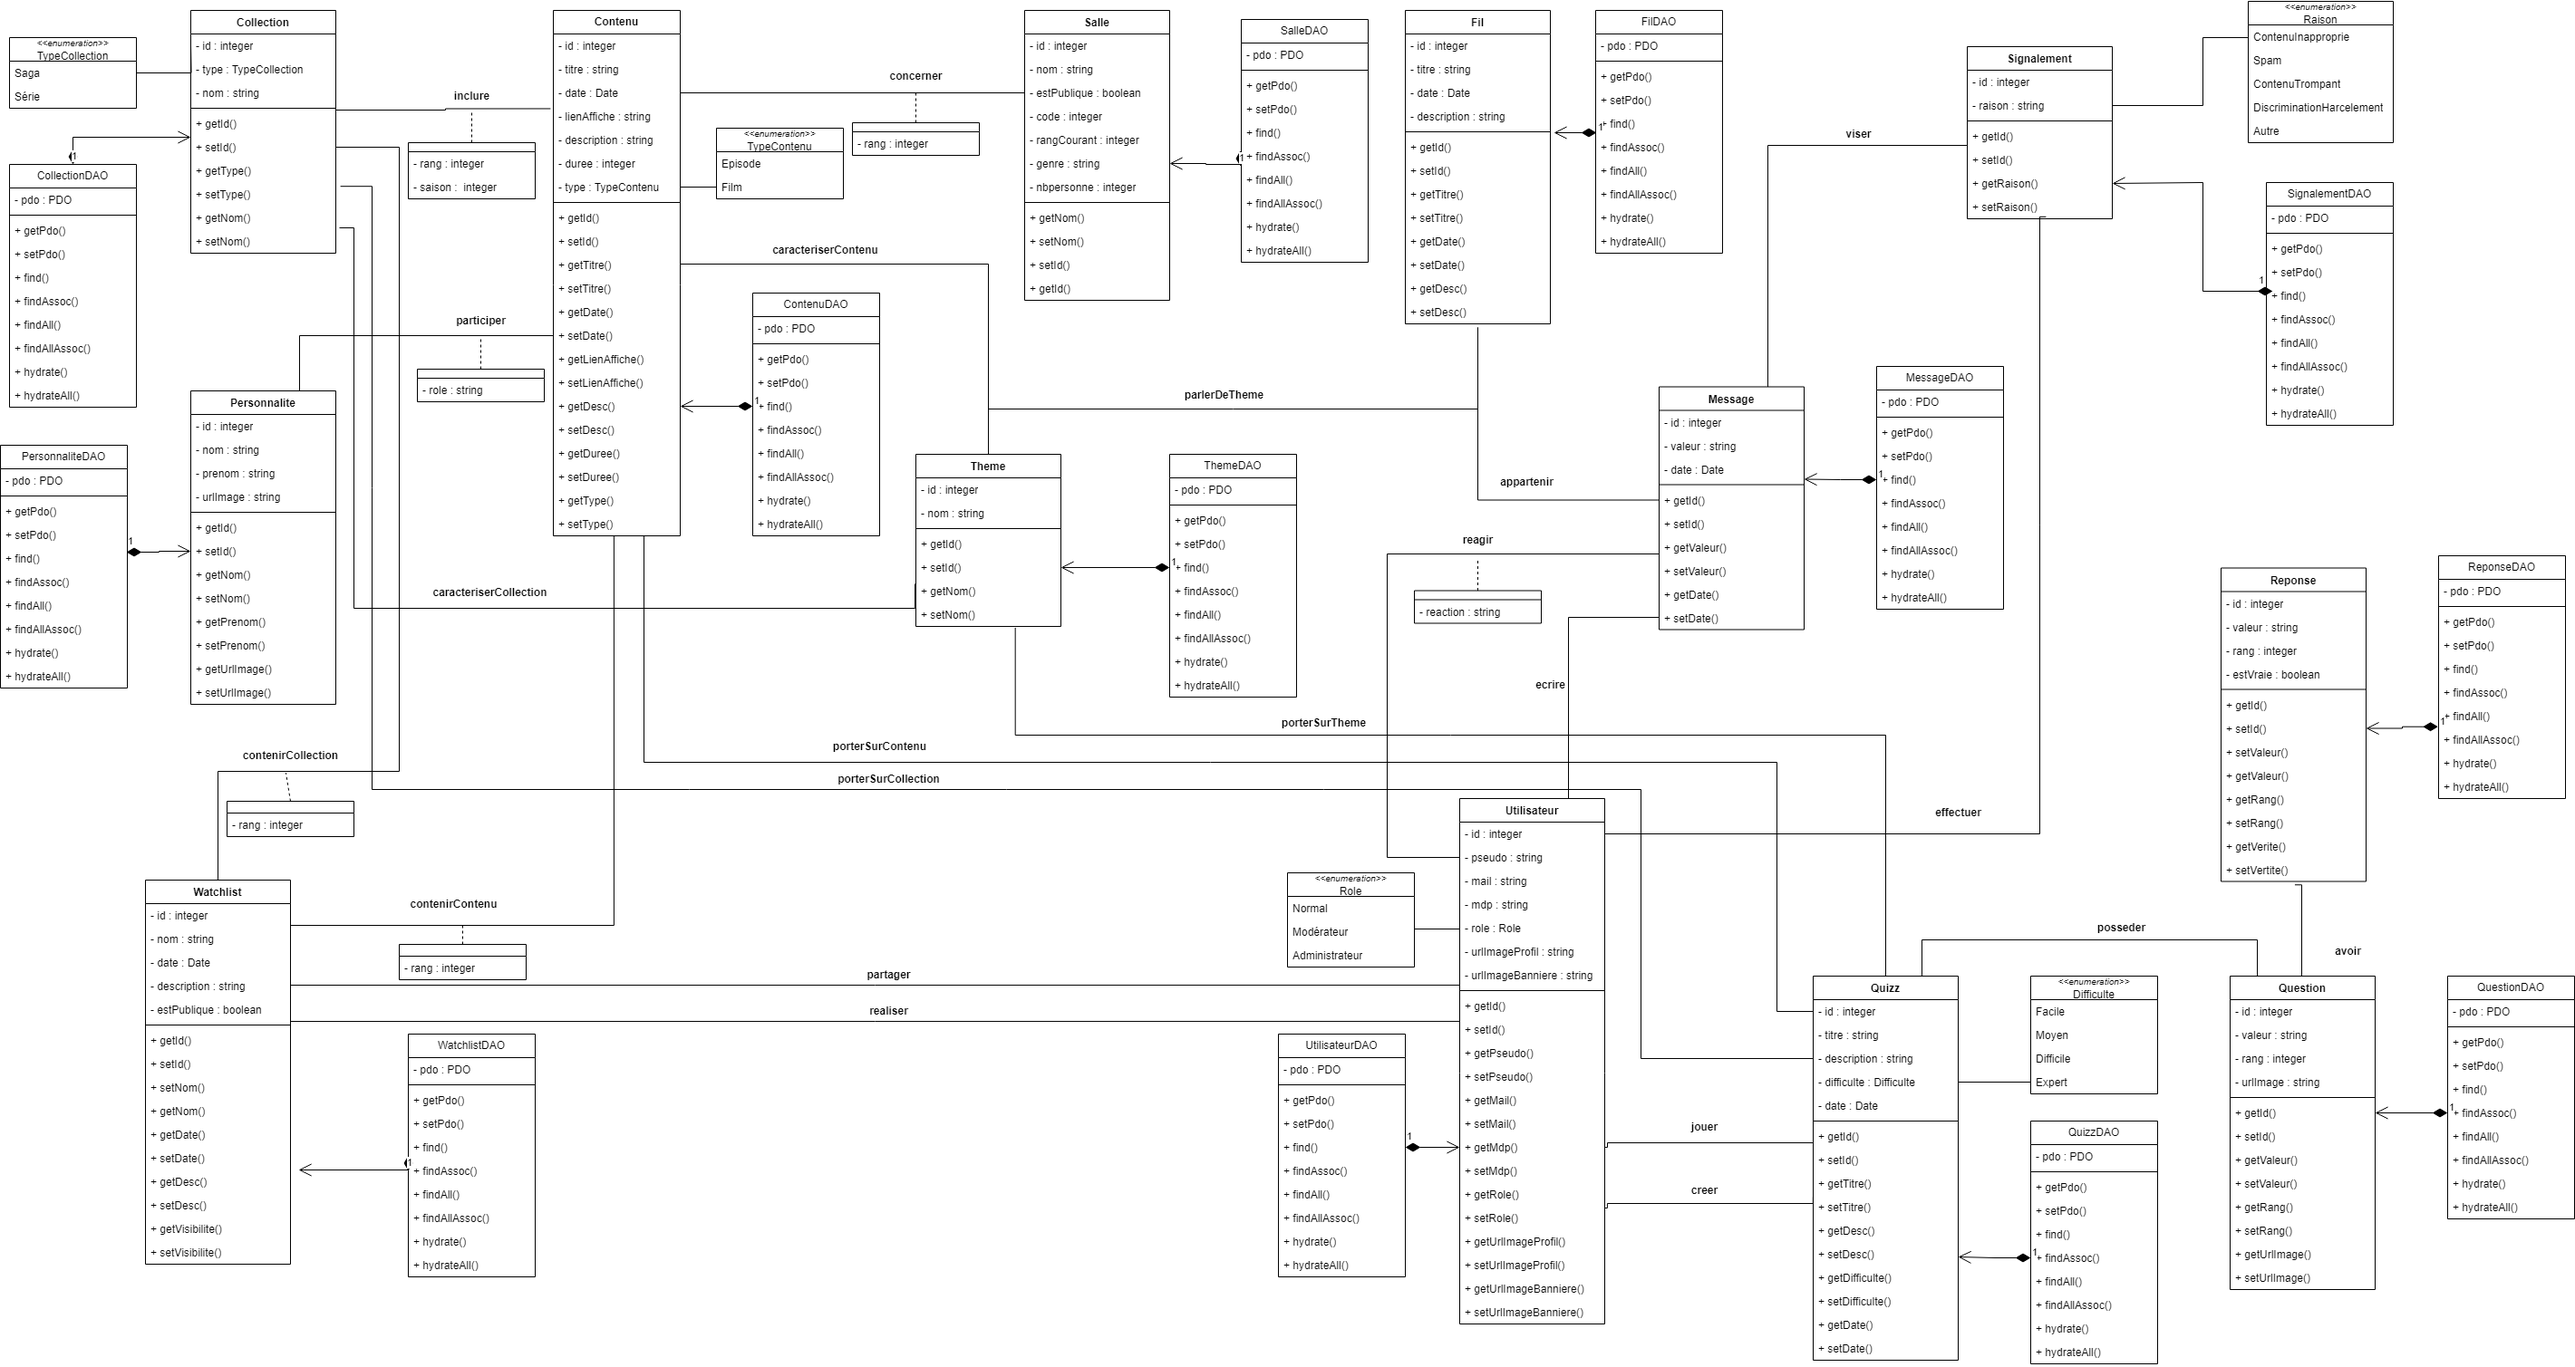
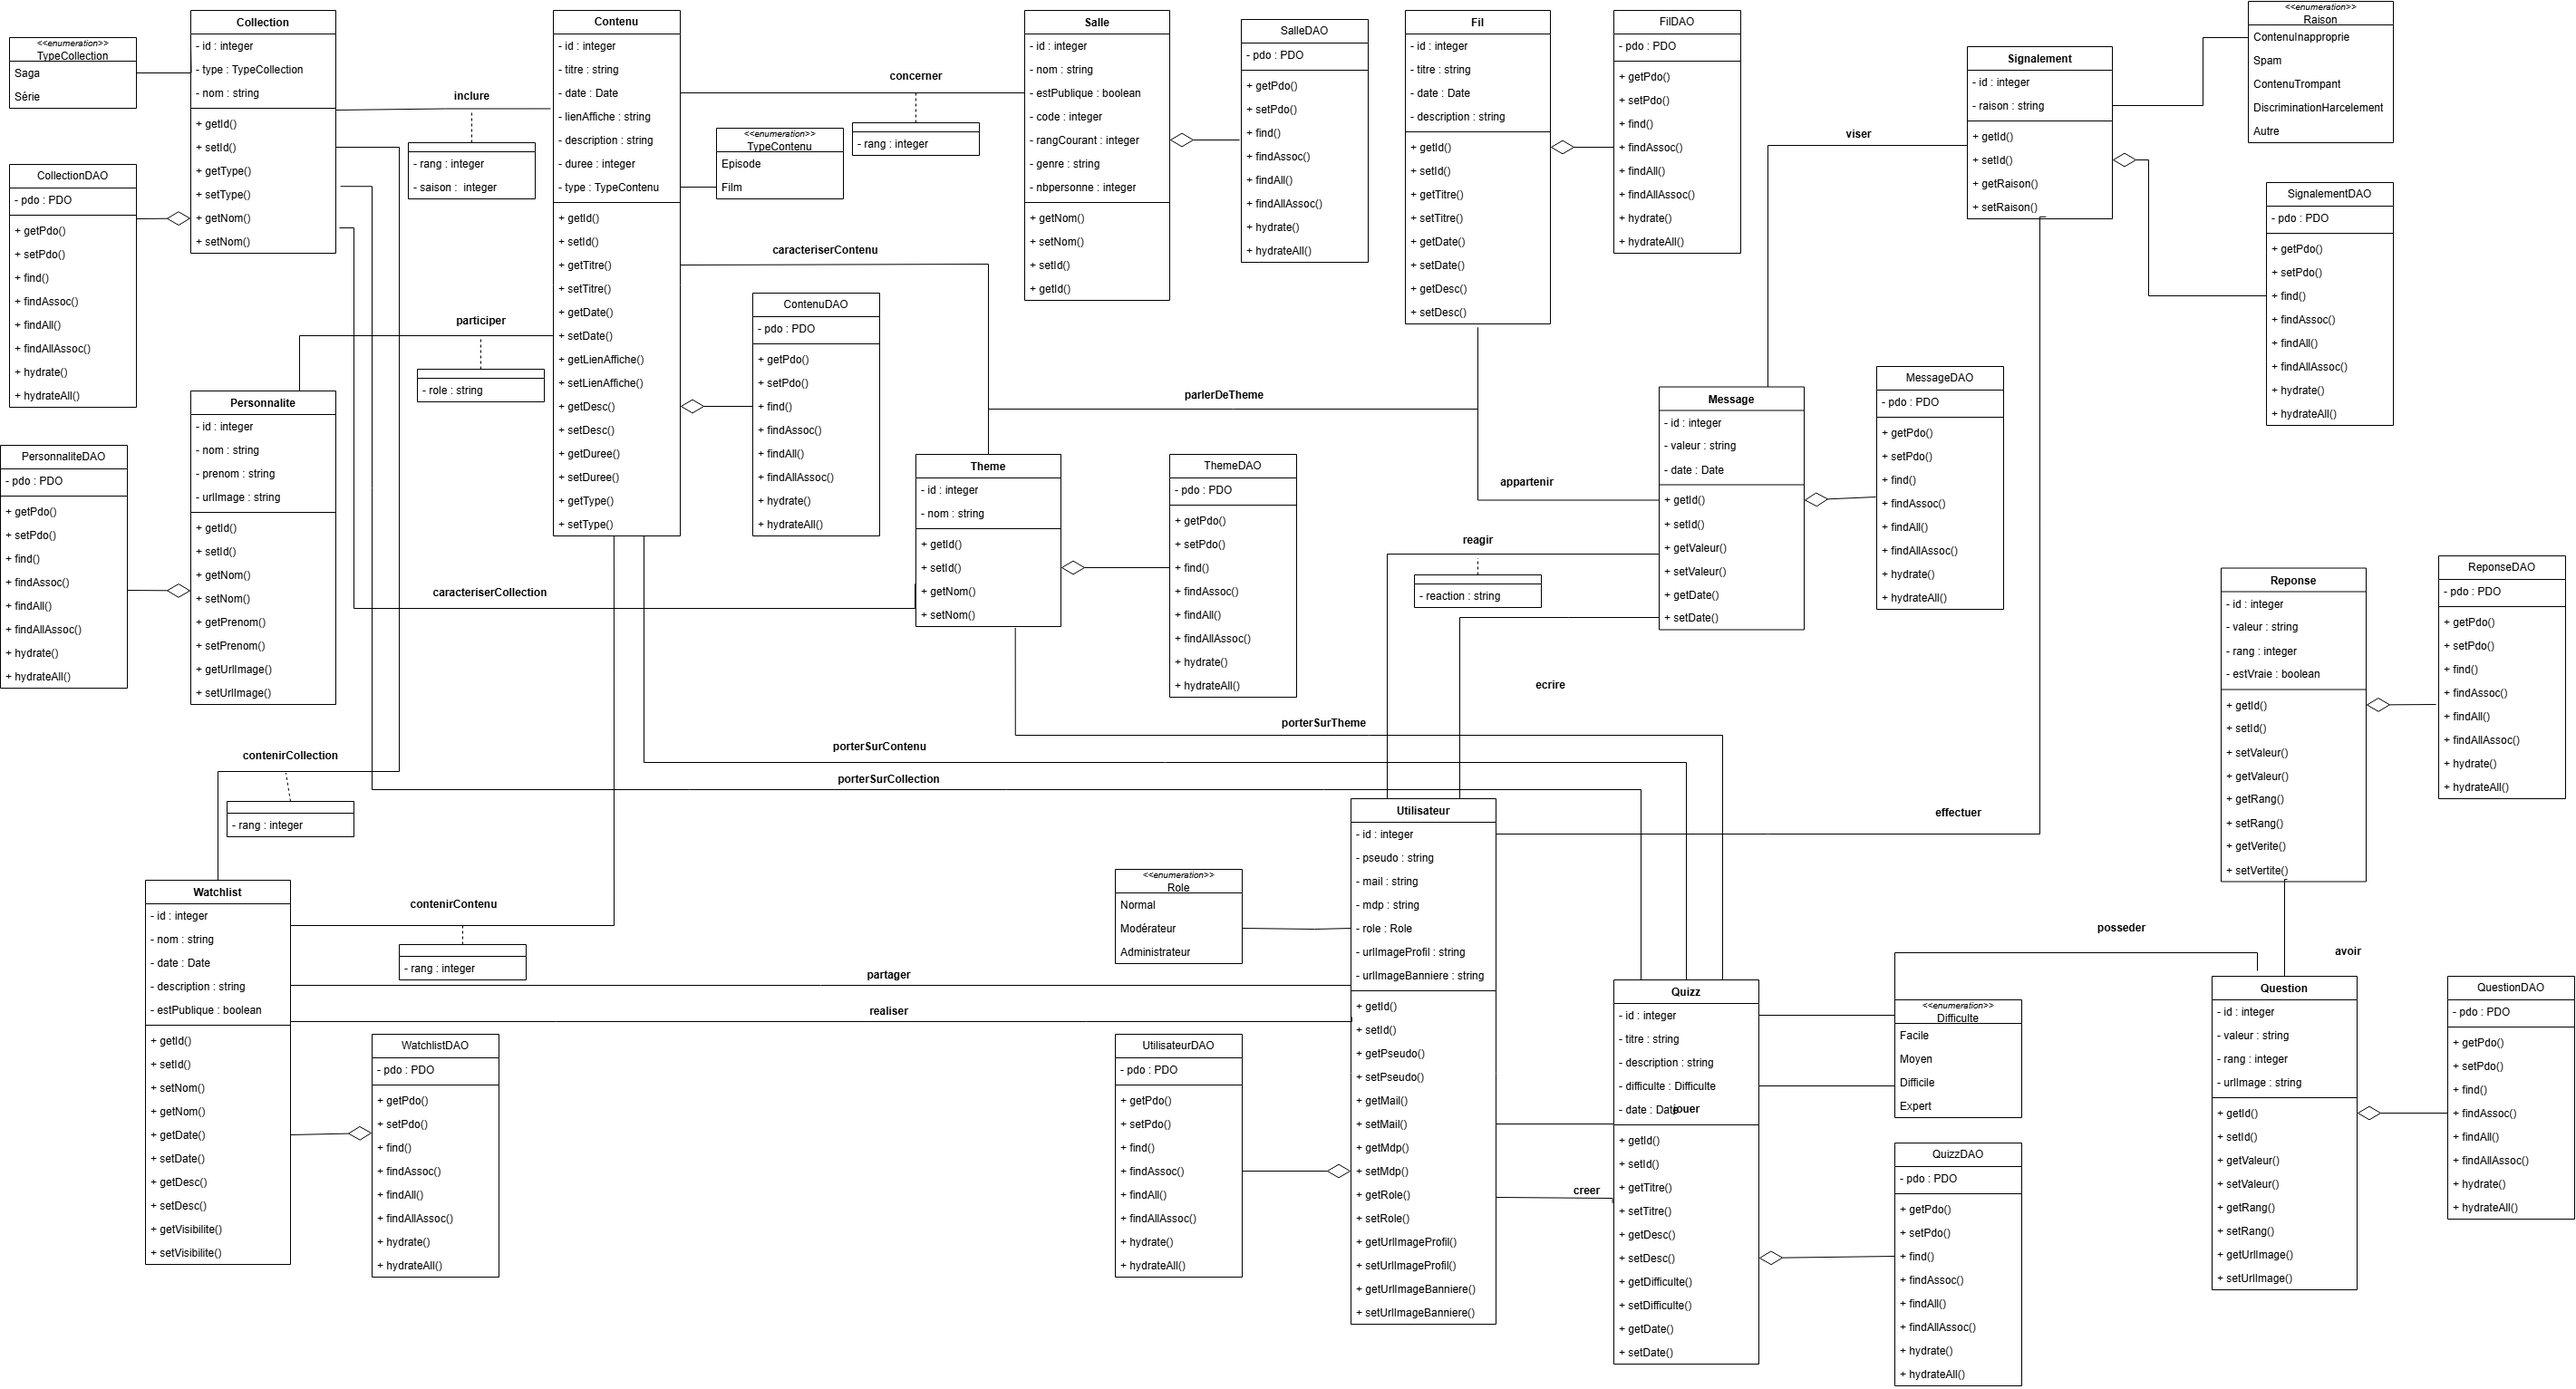
Très légère modification du ReadMe et mise à jour du diagramme de classes

diff --git a/README.md b/README.md
@@ -1,5 +1,4 @@
 # SAE3.01 - Video Home Share (VHS)
-<br>
 
 ## A propos du projet
 Video Home Share est une application web responsive autour des films et séries.
@@ -24,12 +23,12 @@ PHP
 ### Base de données
 SQL
 ### API
-?
 <br>
 <br>
 
 ## Sécurité
-OpenSSL <br>
+OpenSSL
+<br>
 OAUTH2
 <br>
 <br>
